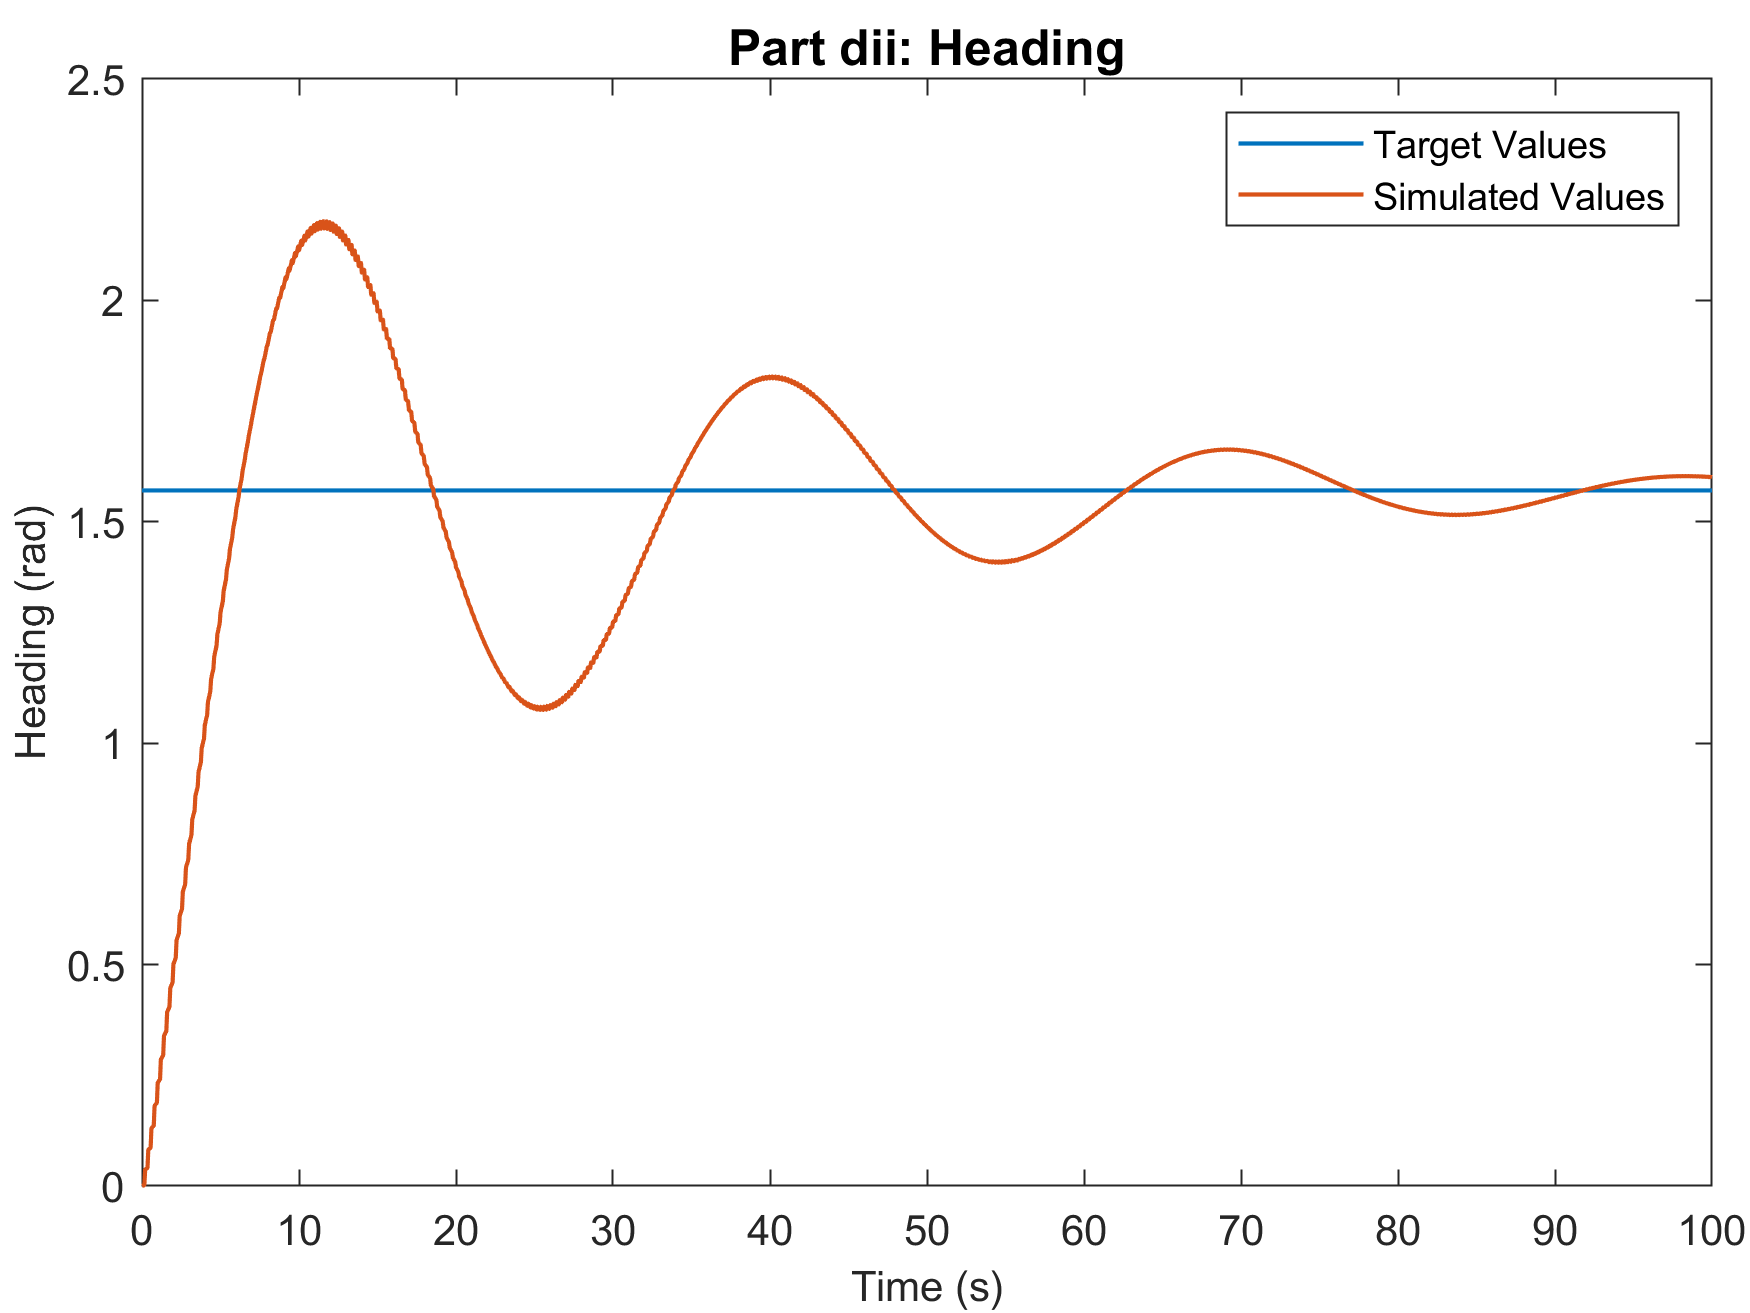
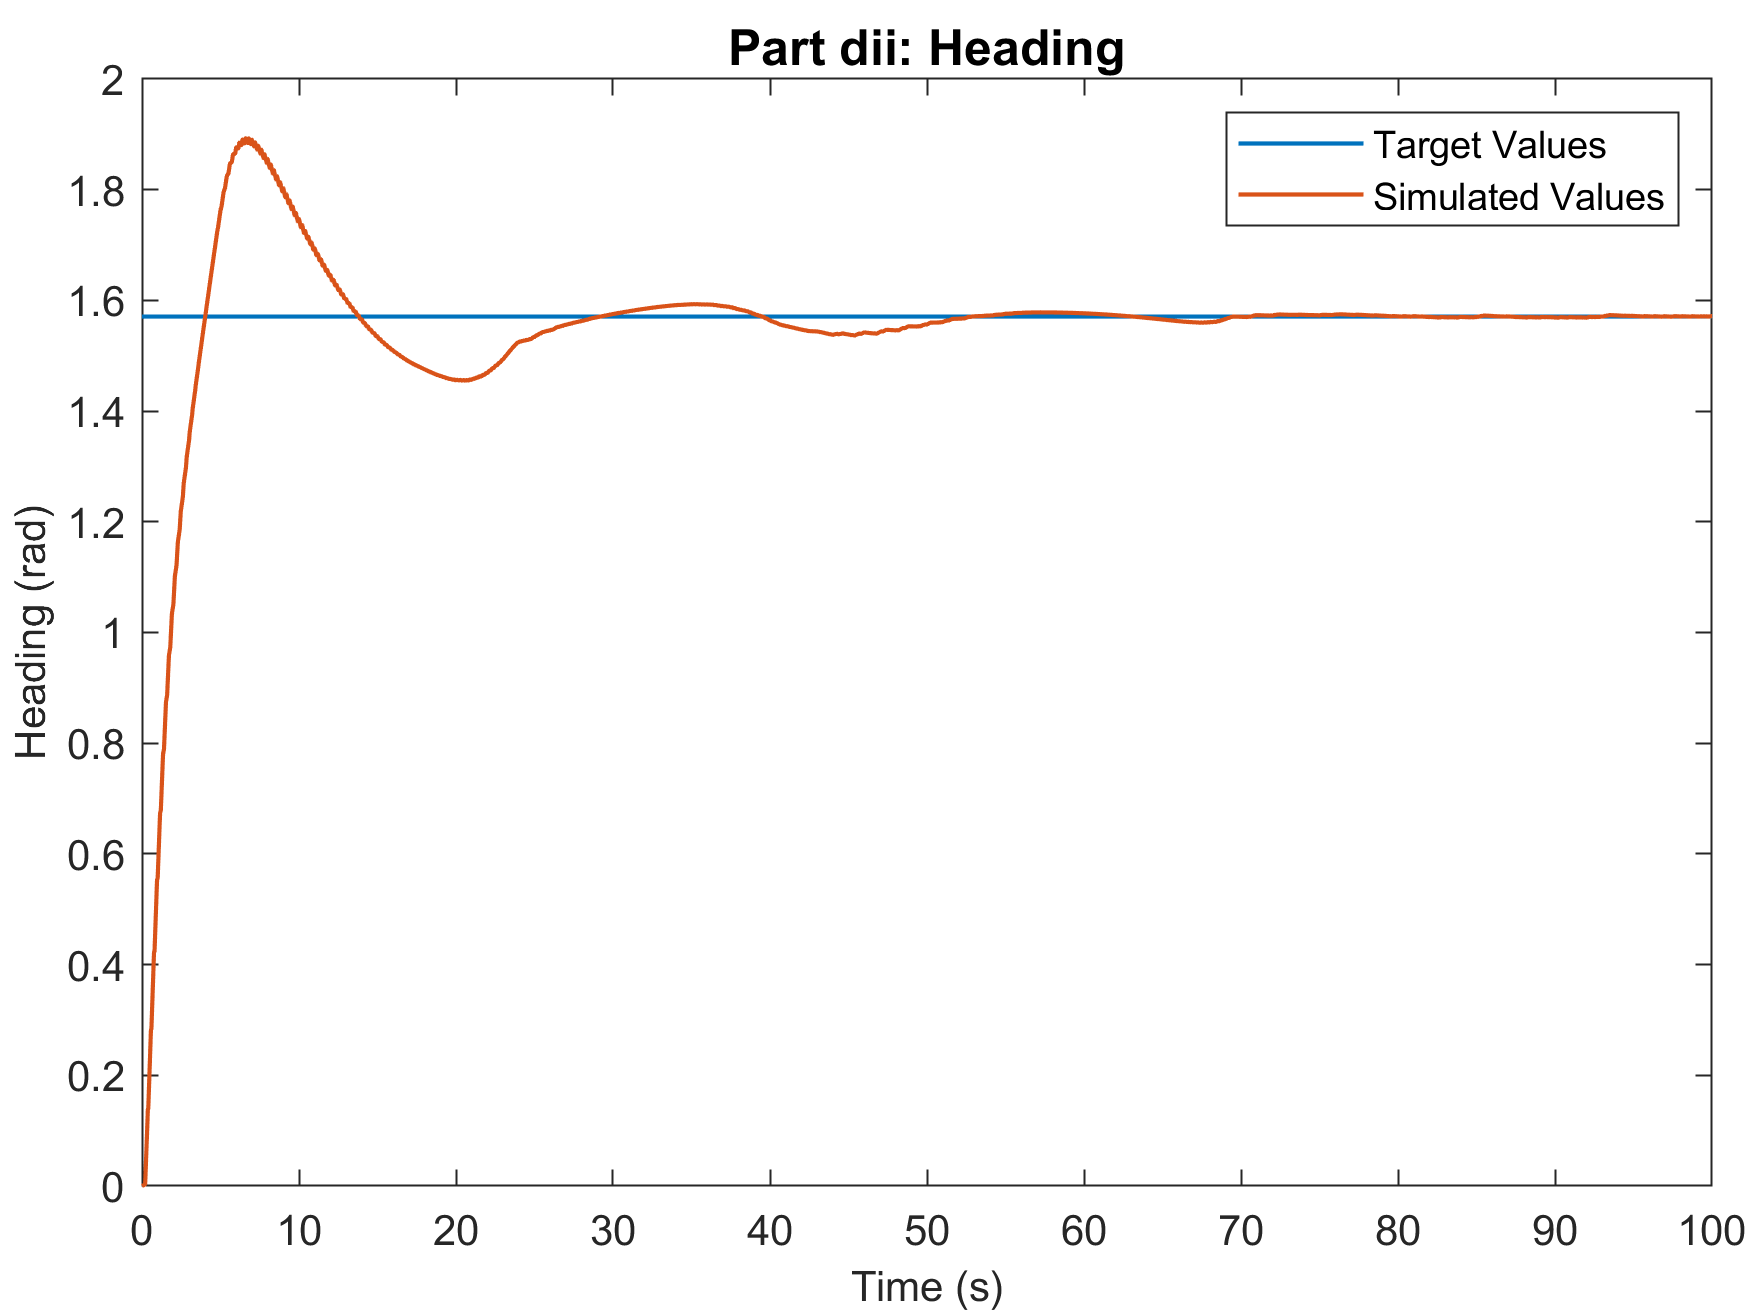
Changes to Shift
Shift Logic Built

diff --git a/blimp_setup.m b/blimp_setup.m
@@ -44,8 +44,8 @@ function simulate_blimp(part_num, closed_loop, controller_on, t_final, opp_mode)
 	% freq to switch between velo and heading control [hz]
 	switch_freq		= 5;
 
-	% Percent to weight controller use on speed vs heading 100 = all speed
-	switch_weight	= 75;
+	% Changes weight of heading error
+	switch_weight	= .5;
 
 	%% DEFINE THE TRANSFER FUNCTIONS
 	s	= tf('s');
